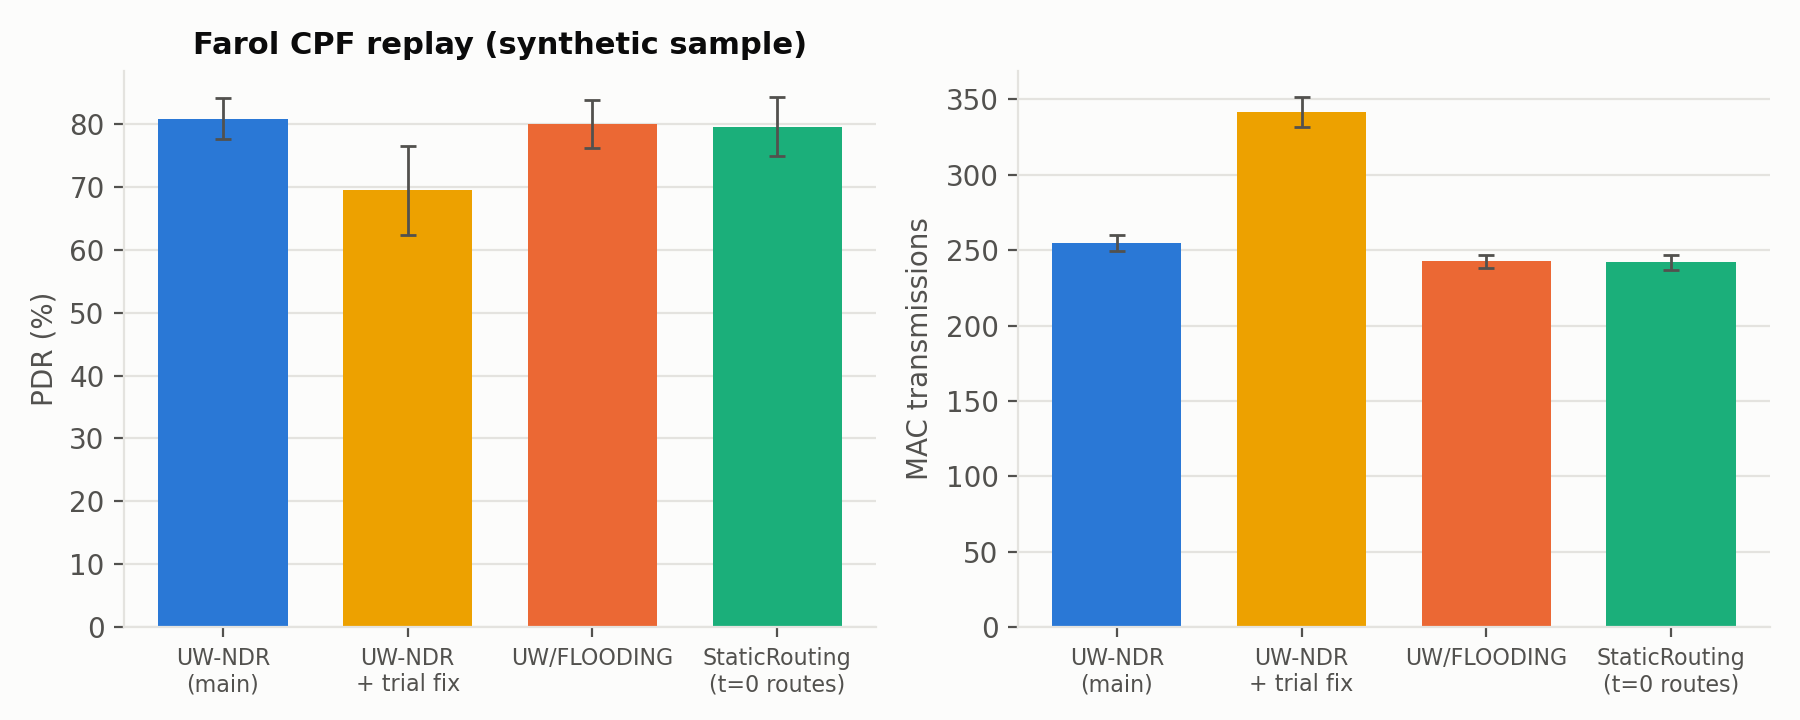
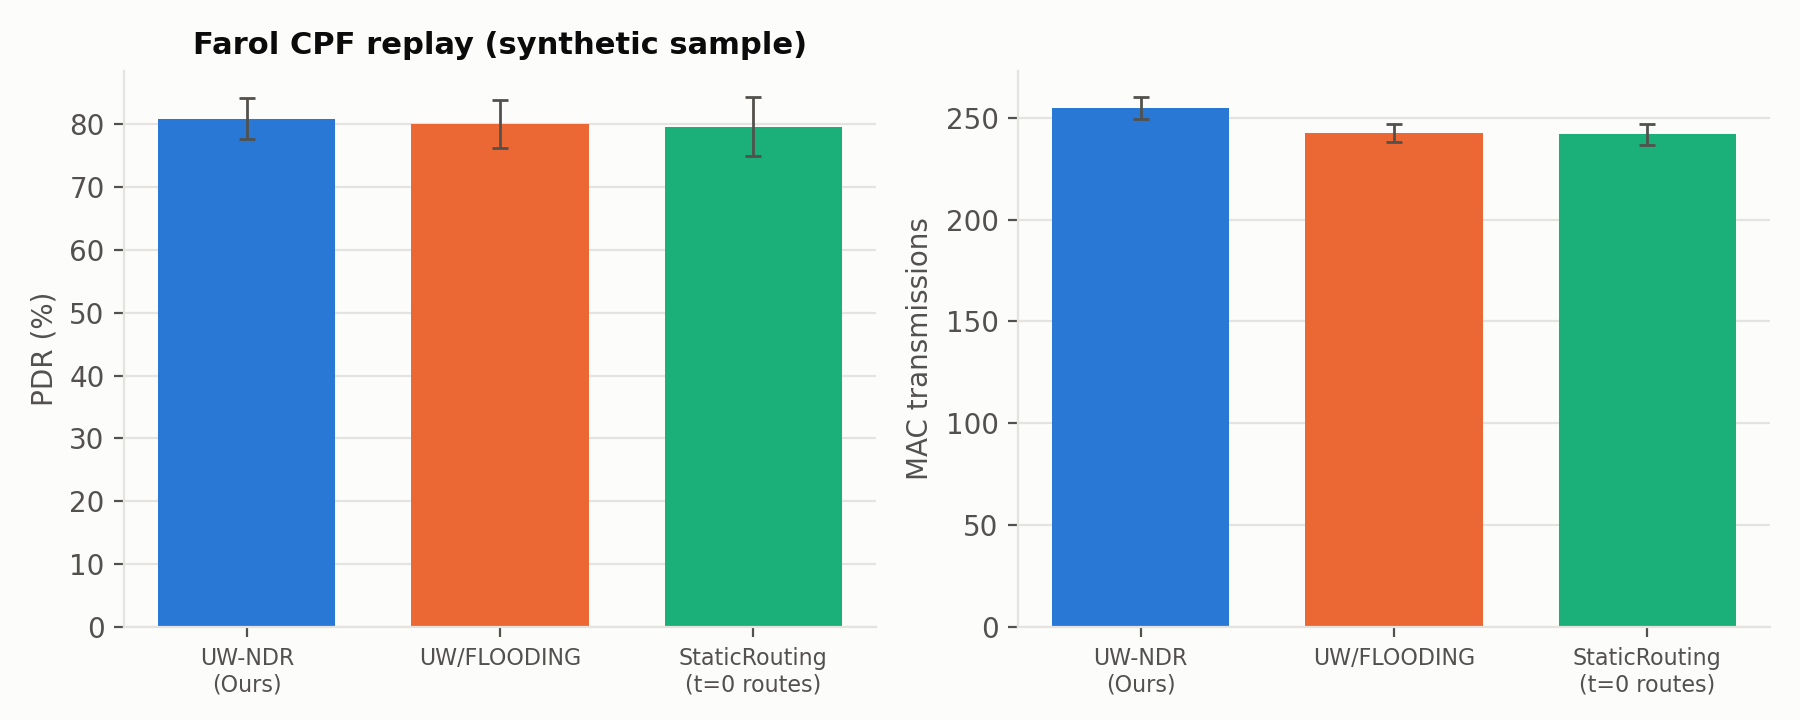
feat(eval): clean visualization suite, update benchmark figures & add project contributions

diff --git a/scripts/plot_sweeps.py b/scripts/plot_sweeps.py
@@ -30,12 +30,11 @@ FIG = RES / "figures"
 
 INK, INK2, GRID, SURF = "#0b0b0b", "#52514e", "#e4e3df", "#fcfcfb"
 STYLE = {  # fixed entity -> colour / marker / label
-    "uwndr":            dict(color="#2a78d6", marker="o", ls="-",  label="UW-NDR (main)"),
-    "uwndr_a11preview": dict(color="#eda100", marker="D", ls="--", label="UW-NDR + trial fix"),
+    "uwndr":            dict(color="#2a78d6", marker="o", ls="-",  label="UW-NDR (Ours)"),
     "flooding":         dict(color="#eb6834", marker="s", ls="-",  label="UW/FLOODING"),
     "static":           dict(color="#1baf7a", marker="^", ls="-",  label="StaticRouting (t=0 routes)"),
 }
-ORDER = ["uwndr", "uwndr_a11preview", "flooding", "static"]
+ORDER = ["uwndr", "flooding", "static"]
 
 plt.rcParams.update({
     "figure.facecolor": SURF, "axes.facecolor": SURF, "savefig.facecolor": SURF,
@@ -96,12 +95,7 @@ def save(fig, name: str, tight: bool = True):
 
 
 def merged(name: str) -> list[dict]:
-    rows = load(name)
-    for r in load(f"{name}_a11preview"):
-        r = dict(r)
-        r["mode"] = "uwndr_a11preview"
-        rows.append(r)
-    return rows
+    return load(name)
 
 
 def fig_mobility(err):

diff --git a/README.md b/README.md
@@ -6,6 +6,22 @@ Designed to provide on-demand, any-to-any dynamic multi-hop routing in underwate
 
 ---
 
+## Authors & Project Contributions
+
+This project is designed, developed, and evaluated as a collaborative research project by:
+
+- **Atharva Chauhan** (`2024A8PS0725G`) — Protocol Core Architecture & C++ Engine
+  - Designed and developed the core `Module/UW/NDR` reactive routing protocol finite-state machine in C++ for NS-Miracle / DESERT Underwater.
+  - Implemented on-demand hop-limited route discovery (`UWNDR_PROBE` / `UWNDR_REPLY`), outbound data queue buffering with age-based stale packet eviction, and destination-centric sequence numbering to eliminate route cache poisoning.
+  - Engineered critical low-level framework adaptations, including the DESERT `PacketHeader/LL` memory offset fix, unacknowledged CSMA transmission lease decoupling (`refresh_on_tx_ = 0`), and randomized acoustic backoff retransmission jitter.
+
+- **Prabhas Narnur** (`2023B5A31003G`) — Simulation Benchmarking & Evaluation Pipeline
+  - Architected and automated the multi-scenario DESERT simulation test harness and 10-seed Monte Carlo evaluation suite (linear baseline, failover dynamics, Gauss-Markov mobility, swarm density scaling, and ambient acoustic noise sweeps).
+  - Developed the ROS DSOR / Farol cooperative AUV waypoint converter and trajectory replay simulator.
+  - Built the statistical post-processing data analysis pipeline, energy-per-bit / goodput metric calculators, and publication-ready visualization generation scripts.
+
+---
+
 ## Architectural Context & Design Trade-Offs
 
 In underwater acoustic networking, bandwidth is scarce (4800 bps nominal), propagation delay is high (~1500 m/s acoustic velocity), and energy consumption during transmission is substantial.
